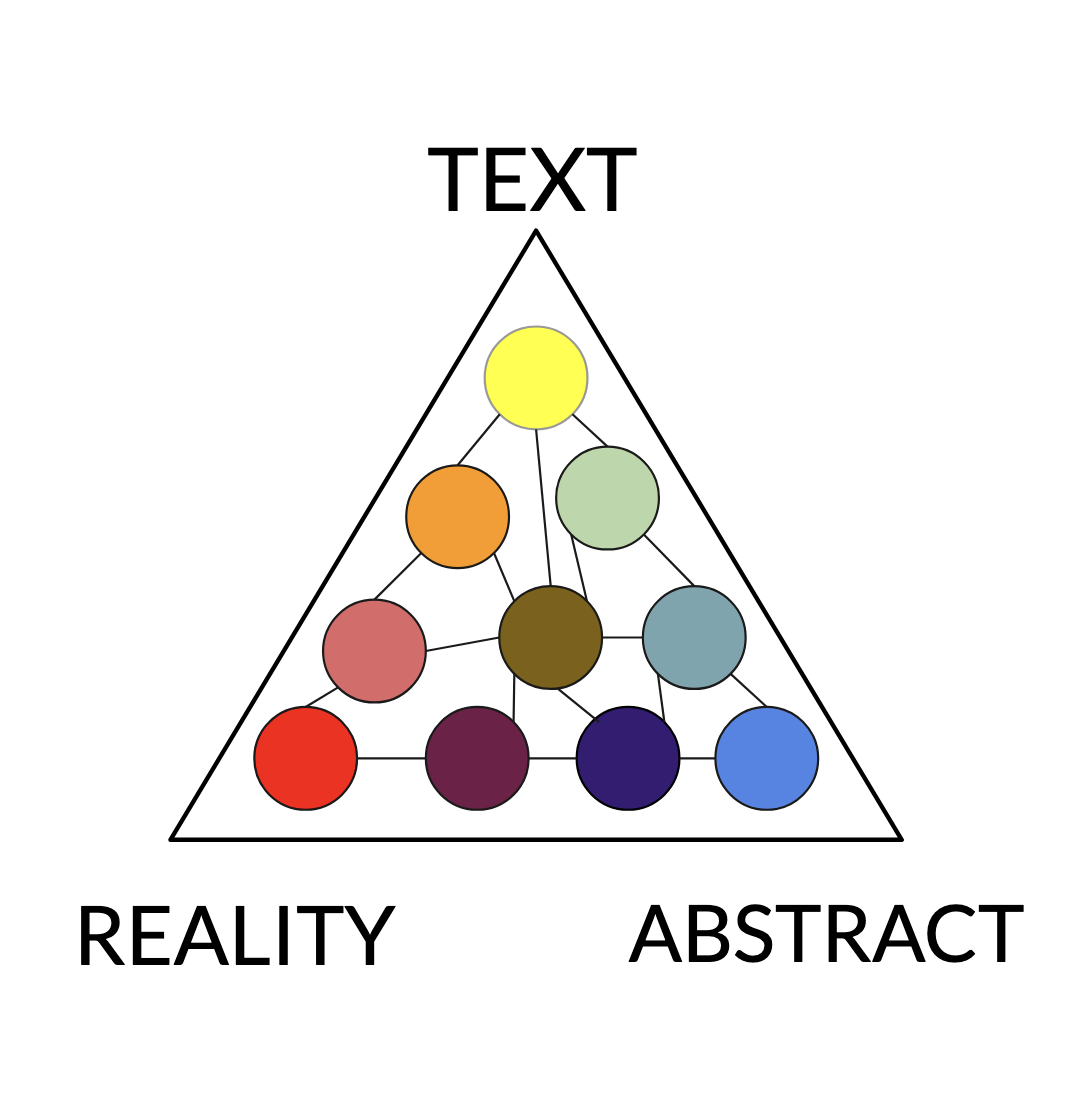
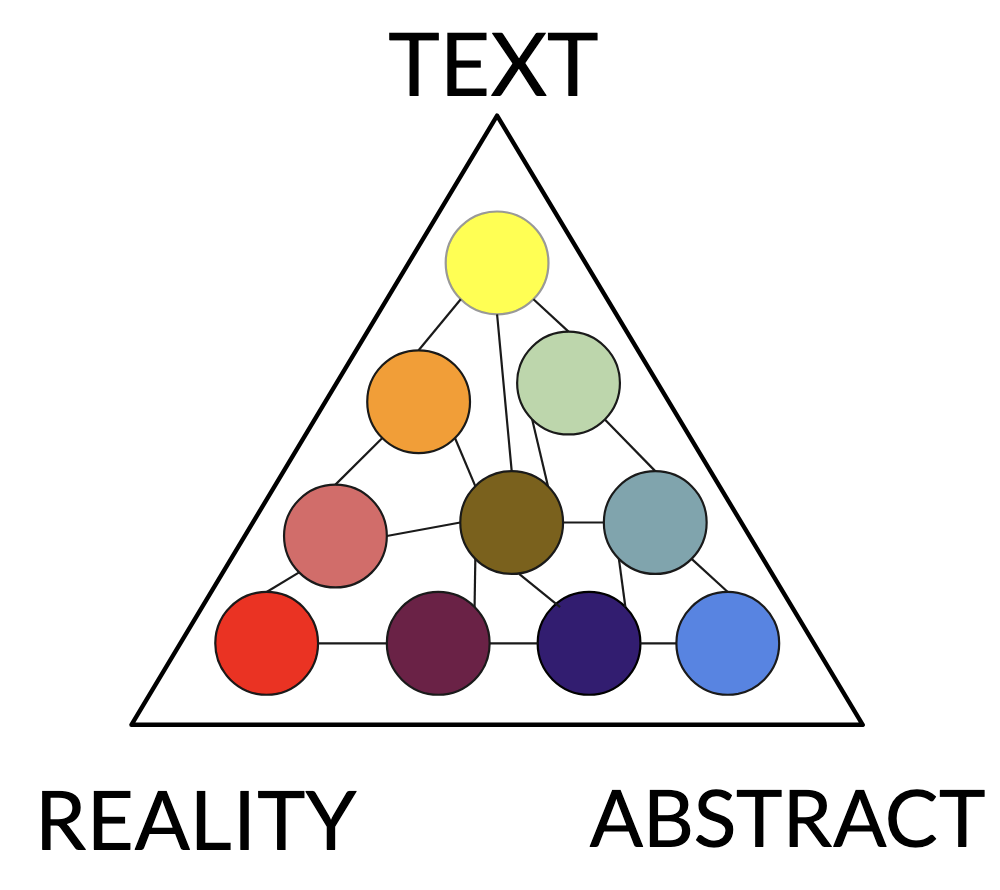
finish mccloud

Changed region(s): [[0.031, 0.0303, 0.992, 0.9708], [0.558, 0.8494, 0.589, 0.8798]]

diff --git a/project-info/mccloud-info.html b/project-info/mccloud-info.html
@@ -38,7 +38,8 @@
         <div class="container">
             <div class="row mb-4">
                 <div class="col-4">
-                    <h1 class="mb-1">The McCloud <br>Pyramid</h1>
+                    <h1 class="mb-2">The McCloud <br>Pyramid</h1>
+                    <h5>2020</h5>
                     <p class="mb-4">VR | JS, Three.js, Blender</p>
                     <p><a href="https://github.com/aelatgt/GCG" class="readmore">Github</a></p>
                 </div>
@@ -52,23 +53,35 @@
                                 meaning in Mozilla's virtual environment, hubs.
                             </p>
 
-                            <p>The three forms of meaning within the pyramid: text, reality, and abstract. To represent
+                            <p class="mb-0">The three forms of meaning within the pyramid: text, reality, and abstract. The forms of
+                                meaning can blend together creating intermediate forms of reality. To represent
                                 these forms we use a face as the base object. As the user moves across the room, the
                                 face model morphs from one form of meaning to the other with each corner representing a
                                 form of reality.
                             </p>
-                            
-                            <div class="col-6">
-                                <img class="img-fluid mt-0 mb-2" src="/img/mccloud/tri.gif">
+
+                            <div class="d-flex justify-content-center">
+                                <img class="col-9  mb-4 img-fluid" src="/img/mccloud/meaning-map.png">
+                                <!-- <img class="col-6 mb-4" id = "mirror" src="/img/mccloud/mirror.gif"> -->
                             </div>
-                        
+
                             <p>
                                 For instance, if the user starts at "abstract" they are faced with the a sphere as they
                                 transition towards the corner for "reality" the model slowly morphs into a realistic
                                 face. This progression was achieved creating the transition with shapekeys in Blender
-                                then using morph targets in Three.js to perform the realtime morphing.
+                                then using morph-targets in Three.js to perform the realtime morphing.
                             </p>
-                            <img class="img-fluid mt-0 mb-2 pl-4 pr-4" src="/img/mccloud/morphing.gif">
+                            <div class="d-flex justify-content-center">
+                                <img class="mt-2 mb-4" src="/img/mccloud/morphing.gif">
+                            </div>
+                            <p>
+                                As the project progressed, additional intermediate steps were added into the path to better reflect McCloud's "Big Triangle". For instance, in the transition from text to reality, intermediate models such as emoticons and emojis were added between the starting word "face" and the final realistic face.
+                            </p>
+
+                            <div class="d-flex justify-content-center">
+                                <img class="mb-4" id = "mirror" src="/img/mccloud/mirror.gif">
+                            </div>
+
                         </div>
 
                     </div>

diff --git a/project-info/hive-info.html b/project-info/hive-info.html
@@ -39,6 +39,7 @@
         <div class="row mb-4">
             <div class="col-4">
                 <h1 class="mb-2">Modeling <br>the Hive</h1>
+                <h5>2021</h5>
                 <p class="mb-4">AR/VR | C#, Unity, Blender</p>
                 <p><a href="https://github.com/EmpathyBytes/Hive" class="readmore">Github</a></p>
                 <p><a href="https://educast.library.gatech.edu/makerspaces/makerspace-collection/"
@@ -58,14 +59,14 @@
 
                         <img class="img-fluid mt-2 mb-4 pl-4 pr-4" src="/img/hive/hive_actual.jpg">
 
-                        <p class=" mb-3">The models for the project were created in Blender. By using reference images
+                        <p>The models for the project were created in Blender. By using reference images
                             from the actual makerspace, the models mirror the real hive.</p>
 
-                        <img class="img-fluid mt-0 mb-4 pl-4 pr-4" src="/img/hive/hive_blender.png">
+                        <img class="img-fluid mt-2 mb-4 pl-4 pr-4" src="/img/hive/hive_blender.png">
 
-                        <p class="mb-3">The app was created in Unity using ARFoundation. Within the space, the user can
+                        <p>The app was created in Unity using ARFoundation. Within the space, the user can
                             navigate through the makerspace and interact with any machinery they encounter.</p>
-                        <img class="img-fluid mt-0 mb-2 pl-4 pr-4" src="/img/hive/hive_unity.png">
+                        <img class="img-fluid mt-2 mb-4 pl-4 pr-4" src="/img/hive/hive_unity.png">
 
                     </div>
                 </div>

diff --git a/project-info/pickrick-info.html b/project-info/pickrick-info.html
@@ -38,7 +38,8 @@
     <div class="container">
         <div class="row mb-4">
             <div class="col-4">
-                <h1 class="mb-1">The Pickrick Protests</h1>
+                <h1 class="mb-2">The Pickrick Protests</h1>
+                <h5>2021-Present</h5>
                 <p class="mb-4">AR | C#, Unity, Blender</p>
                 <p><a href="https://dilac.iac.gatech.edu/node/99" class="readmore">Visit Website</a></p>
                 <p><a href="https://github.com/angles-d/Pickrick_Unity" class="readmore">Github</a></p>
@@ -49,6 +50,7 @@
                 <div class="sticky-content">
 
                     <div class="mb-5">
+                        <p>The Pickrick Protests project is an interactive location-based AR installation that recreates the Pickrick Protests that occured on what is now Georgia Tech's Campus. </p>
                         <p>In 1965 after the passing of the Civil Rights Act, three African American activists, Charles
                             Wells, Albert Dunn, and Woodrow Willis, were denied entry to a the Pickrick restaurant. The
                             restaurant was owned by Lester Maddox, a segregationist and future governor of Georgia. In

diff --git a/style.css b/style.css
@@ -251,10 +251,16 @@ body {
     height: 7px;
     border-radius: 0;
   }
+   
+  /* #mirror{
+    max-width: 40%
+  } */
   
   .custom-progress .progress-bar {
     background: #000;
   }
+
+    
   
   
   
